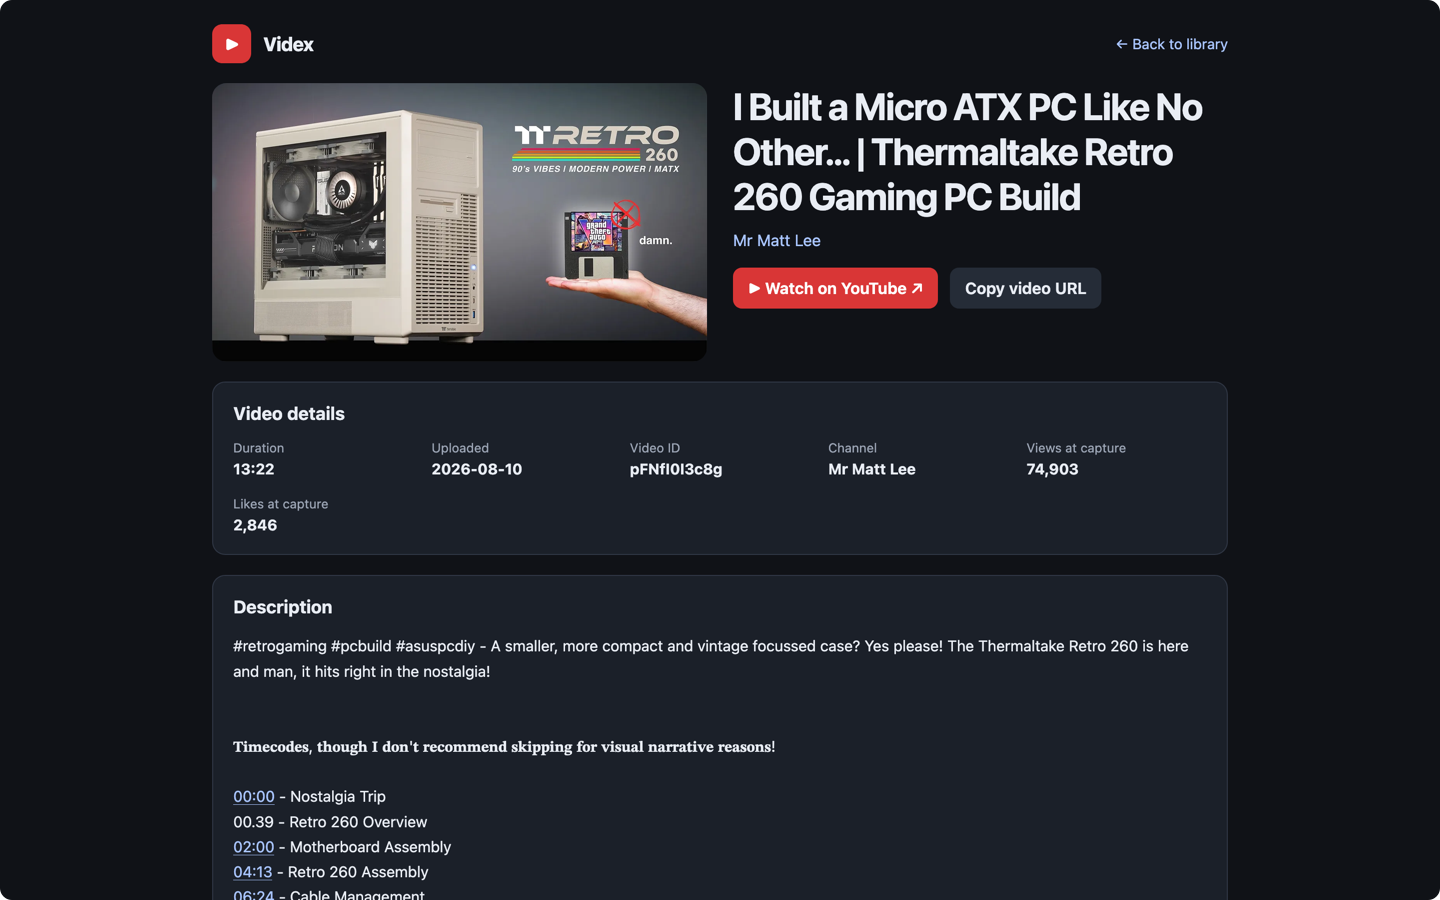
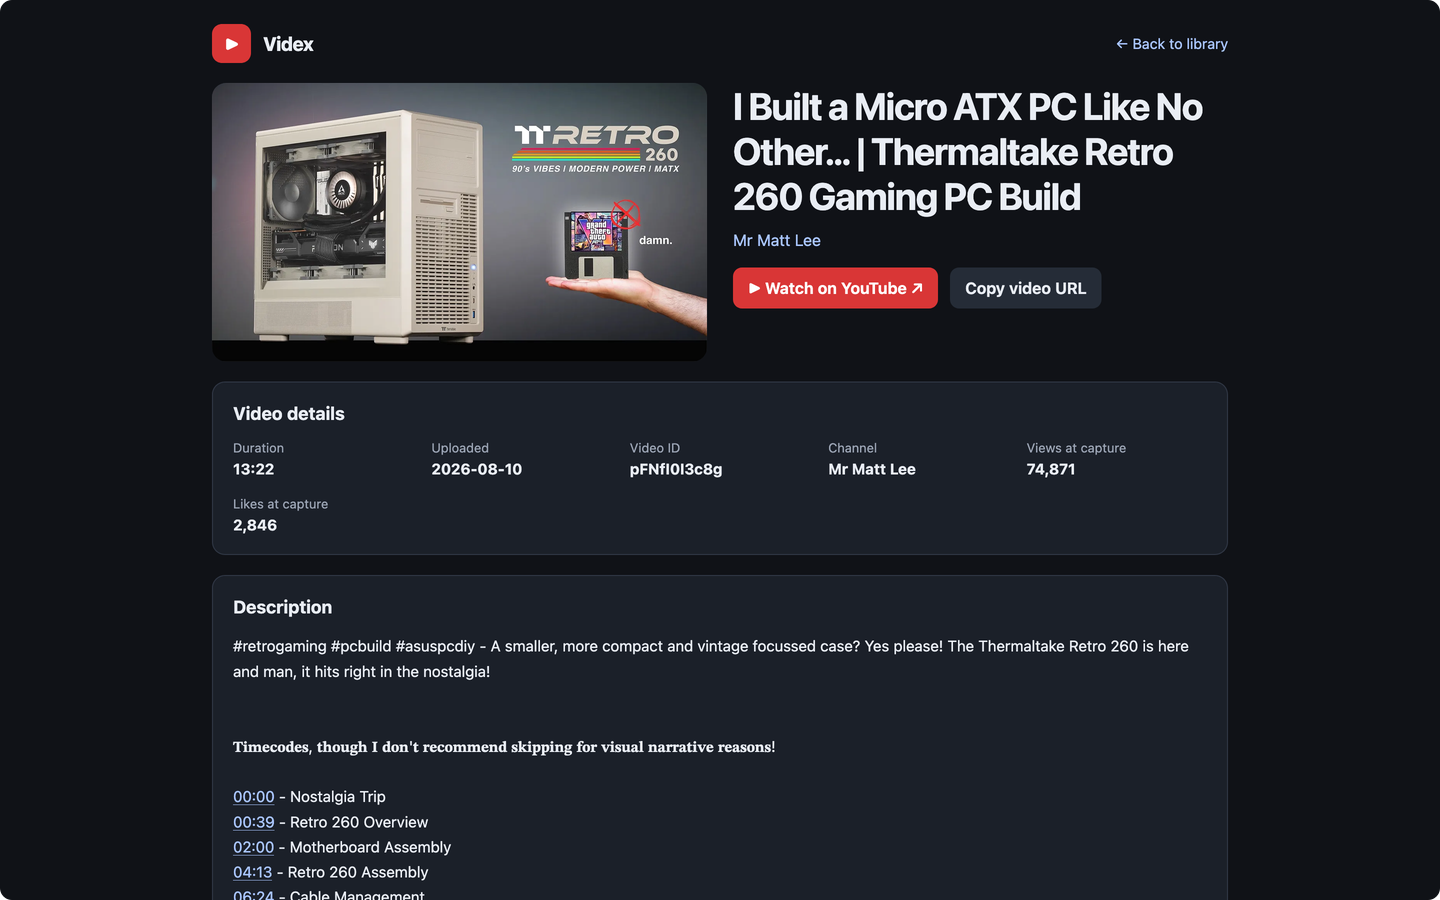
docs: refresh demo screenshots and preserve rounded corners

diff --git a/tests/test_screenshot_prepare.py b/tests/test_screenshot_prepare.py
@@ -1,6 +1,7 @@
 """Offline screenshot preparation tests using synthetic PNGs only."""
 
 import contextlib
+import hashlib
 import importlib.util
 import io
 import os
@@ -138,7 +139,7 @@ class PreparationTests(unittest.TestCase):
         with Image.open(io.BytesIO(result)) as image, Image.open(io.BytesIO(self.native)) as original:
             self.assertEqual(image.size, (1440, 900))
             self.assertEqual(image.mode, 'RGBA')
-            self.assertEqual(image.tobytes(), original.tobytes())
+            self.assert_unchanged_outside_corners(image, original)
             self.assertEqual(image.getpixel((0, 0))[3], 0)
             self.assertEqual(image.getpixel((100, 100))[3], 255)
 
@@ -147,9 +148,71 @@ class PreparationTests(unittest.TestCase):
         self.assertEqual(size, (2880, 1800))
         with Image.open(io.BytesIO(result)) as image, Image.open(io.BytesIO(self.hidpi)) as source:
             expected = source.resize(prep.SIZE, Image.Resampling.LANCZOS)
-            self.assertEqual(image.tobytes(), expected.tobytes())
+            self.assert_unchanged_outside_corners(image, expected)
             self.assertEqual(image.getpixel((0, 0))[3], 0)
             self.assertEqual(image.getpixel((100, 100))[3], 255)
+
+    def assert_unchanged_outside_corners(self, actual, expected):
+        expected = expected.convert('RGBA')
+        # Cover everything except the four 12 x 12 bounding squares.
+        for box in ((12, 0, 1428, 900), (0, 12, 12, 888),
+                    (1428, 12, 1440, 888)):
+            self.assertEqual(actual.crop(box).tobytes(),
+                             expected.crop(box).tobytes())
+        # Within those squares, opaque mask samples must also remain untouched.
+        for y in range(12):
+            for x in range(12):
+                if x >= len(prep.CORNER_ALPHA[y]):
+                    for point in ((x, y), (1439 - x, y),
+                                  (x, 899 - y), (1439 - x, 899 - y)):
+                        self.assertEqual(actual.getpixel(point),
+                                         expected.getpixel(point))
+
+    def test_exact_historical_alpha_for_rgb_and_rgba(self):
+        # SHA-256 of the full alpha plane independently extracted from BOTH
+        # approved PNGs at 8e2fc0854c847ce743f51153c522c92caabd9a39.
[1 lines of base64/hex data omitted]
+        outputs = []
+        for mode in ('RGB', 'RGBA'):
+            with self.subTest(mode=mode):
+                source = Image.new(mode, prep.SIZE, (16, 18, 23, 255) if mode == 'RGBA'
+                                   else (16, 18, 23))
+                stream = io.BytesIO()
+                source.save(stream, format='PNG')
+                result, _, _ = prep.prepare(stream.getvalue())
+                prep.validate_output(result)
+                with Image.open(io.BytesIO(result)) as image:
+                    alpha = image.getchannel('A')
+                    self.assertEqual(hashlib.sha256(alpha.tobytes()).hexdigest(),
+                                     historical_alpha)
+                    self.assertEqual(alpha.histogram()[0], 92)
+                    self.assertEqual(sum(alpha.histogram()[1:255]), 92)
+                    self.assertEqual(image.getpixel((0, 0)), (0, 0, 0, 0))
+                    self.assertEqual(image.getpixel((7, 0)), (16, 16, 25, 31))
+                    self.assertEqual(image.getpixel((8, 0)), (15, 17, 24, 119))
+                    self.assert_unchanged_outside_corners(image, source)
+                    outputs.append(image.tobytes())
+                repeated, _, _ = prep.prepare(result)
+                with Image.open(io.BytesIO(repeated)) as image:
+                    self.assertEqual(image.tobytes(), outputs[-1])
+        self.assertEqual(outputs[0], outputs[1])
+
+    def test_existing_transparency_is_retained(self):
+        source = Image.new('RGBA', prep.SIZE, (60, 90, 120, 255))
+        source.putpixel((7, 0), (60, 90, 120, 10))
+        source.putpixel((8, 0), (60, 90, 120, 180))
+        source.putpixel((100, 100), (60, 90, 120, 73))
+        stream = io.BytesIO()
+        source.save(stream, format='PNG')
+        result, _, _ = prep.prepare(stream.getvalue())
+        with Image.open(io.BytesIO(result)) as image:
+            self.assertEqual(image.getpixel((7, 0))[3], 10)
+            self.assertEqual(image.getpixel((8, 0))[3], 119)
+            self.assertEqual(image.getpixel((100, 100)), (60, 90, 120, 73))
+            self.assert_unchanged_outside_corners(image, source)
+        repeated, _, _ = prep.prepare(result)
+        with Image.open(io.BytesIO(result)) as first, Image.open(io.BytesIO(repeated)) as second:
+            self.assertEqual(first.tobytes(), second.tobytes())
 
     def test_metadata_removed_and_color_preserved(self):
         colors = [(b'sRGB', b'\1'), (b'gAMA', prep.GAMMA), (b'cHRM', prep.CHROMATICITIES)]

diff --git a/docs/screenshots/prepare-screenshots.py b/docs/screenshots/prepare-screenshots.py
@@ -22,6 +22,24 @@ COLORS = {b'sRGB', b'gAMA', b'cHRM'}
 ALLOWED = {b'IHDR', b'IDAT', b'IEND'} | COLORS
 BASELINES = Path(__file__).resolve().parent
 
+# Exact top-left alpha samples from both approved screenshots at 8e2fc08.
+# Each row ends at its last nonopaque pixel; all other pixels are opaque.
+# Reflect this measured 12 x 12 corner rather than rasterizing a guessed radius.
+CORNER_ALPHA = tuple(bytes.fromhex(row) for row in (
+    '00 00 00 00 00 00 00 1f 77 b9 e4 f9',
+    '00 00 00 00 00 1e a7 fd',
+    '00 00 00 00 4e f2',
+    '00 00 00 6e fd',
+    '00 00 4e fd',
+    '00 1e f2',
+    '00 a7',
+    '1f fd',
+    '77',
+    'b9',
+    'e4',
+    'f9',
+))
+
 
 class PublicationError(OSError):
     def __init__(self, message, output_retained):
@@ -105,6 +123,24 @@ def inspect_png(data):
     return chunks, (width, height)
 
 
+def round_corners(image):
+    """Restore the approved corner pixels after resizing; retain lower alpha."""
+    rounded = image.convert('RGBA')
+    width, height = rounded.size
+    for y, row in enumerate(CORNER_ALPHA):
+        for x, mask_alpha in enumerate(row):
+            for point in ((x, y), (width - 1 - x, y),
+                          (x, height - 1 - y), (width - 1 - x, height - 1 - y)):
+                red, green, blue, alpha = rounded.getpixel(point)
+                alpha = min(alpha, mask_alpha)
+                # Match the historical 8-bit premultiply/unpremultiply rounding.
+                # This also clears hidden RGB at fully transparent corner pixels.
+                rgb = tuple(((c * alpha + 127) // 255 * 255 + alpha // 2) // alpha
+                            for c in (red, green, blue)) if alpha else (0, 0, 0)
+                rounded.putpixel(point, (*rgb, alpha))
+    return rounded
+
+
 def prepare(data):
     try:
         from PIL import Image, PngImagePlugin
@@ -121,7 +157,7 @@ def prepare(data):
         if original.size != dimensions or original.mode not in ('RGB', 'RGBA'):
             raise ValueError('Unexpected decoded PNG image')
         resized = original.resize(SIZE, Image.Resampling.LANCZOS) if dimensions != SIZE else original
-        fresh = Image.frombytes(resized.mode, SIZE, resized.tobytes())
+        fresh = round_corners(Image.frombytes(resized.mode, SIZE, resized.tobytes()))
         info = PngImagePlugin.PngInfo()
         colors = [(k, v) for k, v in chunks if k in COLORS]
         for k, v in colors:

diff --git a/docs/screenshots/README.md b/docs/screenshots/README.md
@@ -1,9 +1,12 @@
 # Documentation screenshots
 
-`library.png` and `bookmark.png` are approved historical baselines. Preparation
-creates separate review candidates; it never approves or replaces these files.
-The existing rounded transparent corners are intentional. Existing screenshots
-predate current personal-tag presentation and are not pixel-exact current UI tests.
+`library.png` and `bookmark.png` are the current documentation screenshots,
+representing the refreshed Videx demo and current interface, including selective
+personal tags in the library. They have passed technical and privacy verification
+and are approved for documentation use. The original historical screenshots remain
+the reference for reproducing the established rounded-corner transparency treatment.
+Preparation creates separate review candidates; it never approves or replaces the
+current screenshots. These screenshots are not pixel-exact current UI tests.
 
 ## Firefox capture recipe
 
@@ -87,14 +90,27 @@ explicit action; dry-run does not create directories or temporary files.
 
 Only exact **8:5** inputs at **1440 × 900 or larger** are accepted. No cropping,
 stretching or upscaling occurs. Larger inputs use Pillow LANCZOS in the image's
-RGB/RGBA representation; no linear-light conversion is performed. Native-size
-inputs retain their decoded pixels. Alpha, including existing rounded corners,
-is preserved. The tool does not add rounded corners to a rectangular capture;
-any new corner treatment requires explicit visual review.
+RGB/RGBA representation; no linear-light conversion is performed. After resizing,
+the tool applies the exact rounded-corner treatment measured from both approved
+screenshots in commit `8e2fc0854c847ce743f51153c522c92caabd9a39`. Both originals
+have the same symmetric 12 × 12 corner footprint (nominal 12-pixel radius).
+The measured alpha samples are embedded in the utility rather than regenerating
+an approximate curve with a drawing API. Across all four corners, 92 pixels are
+fully transparent and 92 are partially transparent on an otherwise opaque input.
+
+RGB inputs become RGBA. Existing RGBA alpha is capped by the corner mask, so
+existing transparency is never made more opaque; repeated preparation is idempotent
+at native size. Within the mask, RGB follows the original 8-bit
+premultiply/unpremultiply rounding; fully transparent corner pixels have zero RGB.
+Every pixel outside the 184 affected corner positions remains unchanged from the
+decoded native-size image or the LANCZOS-resized image, including existing alpha.
+No Git checkout or reference image is needed at runtime. Final candidates still
+require explicit visual approval before replacing tracked screenshots.
 
 Input scope is static, noninterlaced, 8-bit RGB/RGBA PNG, at most 64 MiB and
 40 million pixels. Palette, grayscale, 16-bit, animated and `tRNS` images are
-unsupported. Outputs must decode as 1440 × 900 RGB/RGBA and be at most **2 MiB**.
+unsupported. Prepared outputs are 1440 × 900 RGBA and must be at most **2 MiB**.
+The output validator continues to accept sanitized RGB/RGBA images.
 This size cap is a project policy, not a hosting-service requirement.
 
 ## Privacy and color policy
